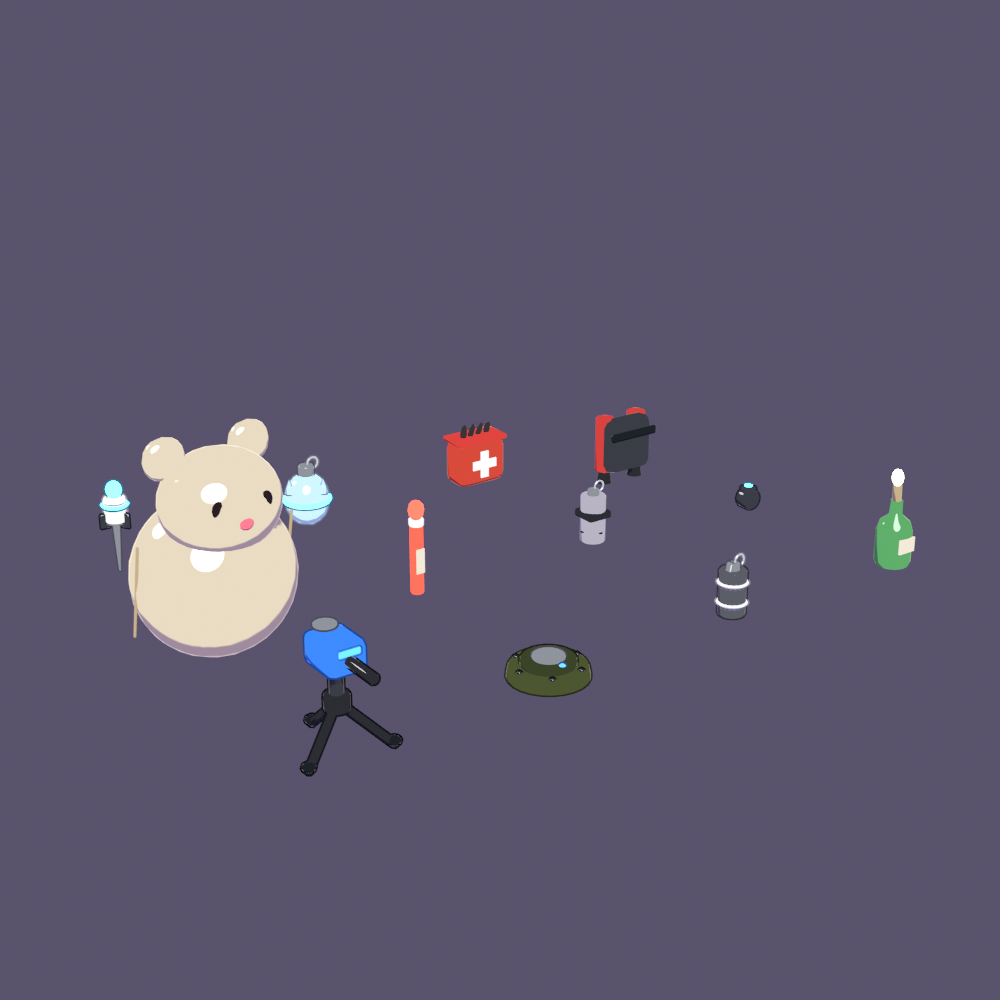
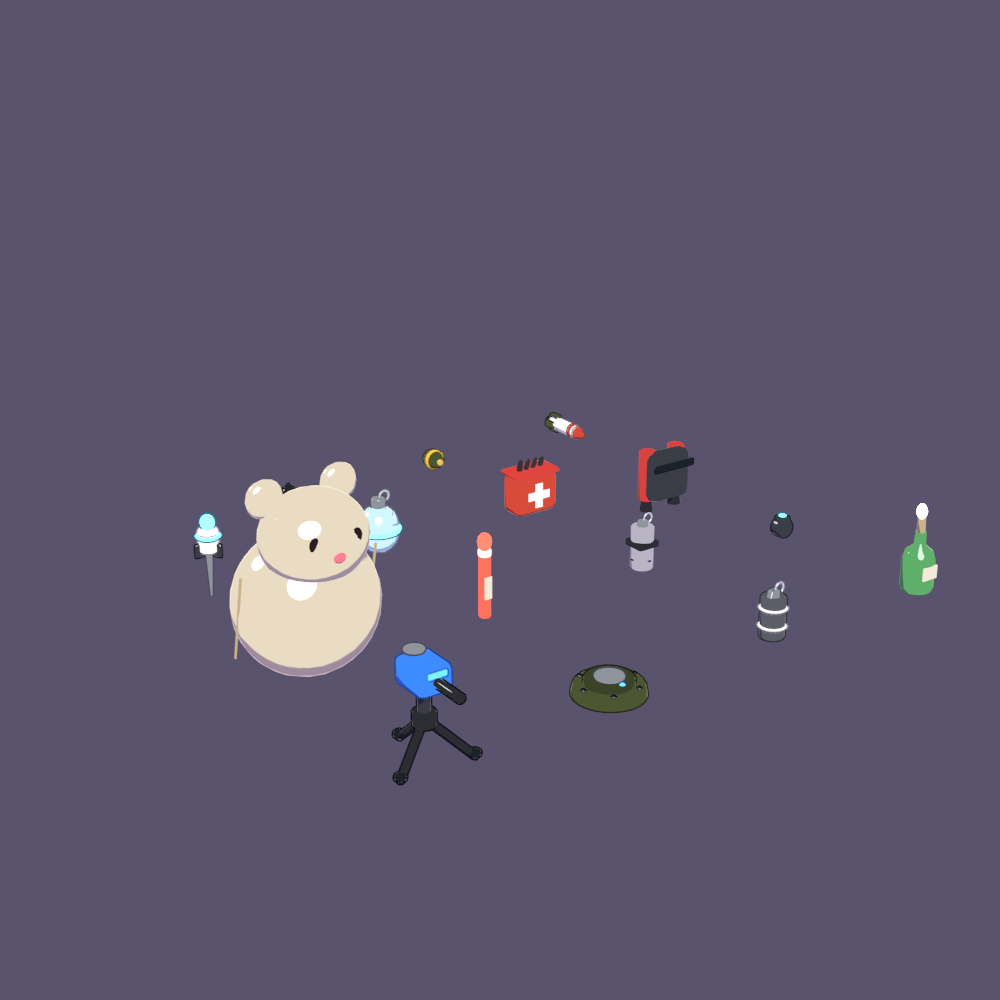
批次 2（进行中）：界面细节修正、分屏手电按视野隐藏、帧率显示、数值挪进 rules.json、完整地图胜负测试
- 设置开关显示开 / 关；大厅 / 设置 / 图鉴打开时藏起标题和底部说明；主菜单底部暗带
- 暂停菜单“Q 手雷”改为“Q 道具”；大厅说明不再折行
- 设置里的“显示帧率”接上右下角帧率显示
- 分屏：点光 / 聚光也按渲染层过滤（看不见的敌人的手电不再照亮另一边画面），伤害数字缩小
- AI 名字 16 个且不重名；结算击倒列字体
- AI 用道具阈值、道具自动瞄准距离、燃烧传染参数挪进 rules.json（数值不变）
- 新测试：完整地图 5 对 5 AI 对局能分出胜负
- 版本号 0.2.0；Windows 包附带双人分屏.bat，帧率测试改测完整地图

Claude-Session: https://claude.ai/code/session_01TTJeg44oweLbzyHitSkFYd

diff --git a/docs/PIPELINE.md b/docs/PIPELINE.md
@@ -59,6 +59,11 @@ game/
   - `scripts/view/match_view.gd`（60Hz 推进 sim + 事件分发）、`hamster_view.gd`、`unit_views.gd`、`map_view.gd`、`fx_system.gd`、`toon_materials.gd`（按材质名前缀换 toon 着色器）。
   - `scripts/ui/`（主题、HUD、主菜单、暂停、设置、结算）、`scripts/core/main.gd`（入口和命令行参数）、`scripts/core/capture.gd`（截图 / 帧率测试场景）。
   - `data/rules.json`：原型里写死的常数；`evolutions.json` 的 `effects`：进化效果（格式见 `_effectsDoc`）。
+- 批次 2 新增：
+  - sim：`sim_weapon_modes.gd`（火箭 / 榴弹 / 武士刀 / 喷火 / 电磁炮 / 激光这些不走普通子弹的开火方式）、`sim_gadgets.gd`（13 种道具 + AI 用道具的判断）、`sim_mobs.gd`（野怪营地、鼠王、宠物）、实体 `sim_mob.gd` / `sim_pet.gd` / `sim_decoy.gd`。
+  - 表现：`world_fx.gd`（光束、刀光、火区、烟雾、冲击波、火箭、野怪 / 鼠王 / 宠物 / 诱饵 / 自动炮台等新实体的节点）、`b2_views.gd`、`shaders/beam.gdshader`；`hamster_view.gd` 里的强化挂件（`ACC` 表）。
+  - 界面：`lobby.gd`（开局大厅）、`codex.gd` + `snapshot.gd`（图鉴 8 页 + 模型快照）、`settings_panel.gd`（3 页设置）、`player_input.gd`（键鼠 / 手柄 / 2P 方向键）。
+  - 本地分屏：两个 SubViewport 共用主 3D 世界，每人一个 `GameCamera` + 一套 `Hud`；视野靠渲染层（蓝队第 2 位、红队第 3 位，相机 `cull_mask = 1 | 队伍位`），`MatchView.apply_mask()` 把几何体和点光 / 聚光放到“哪些本地队伍看得见”的层上。
 - 固定逻辑帧 60Hz，渲染插值；随机数用带种子的 RNG，方便复现和联机。
 - 大量重复物体（子弹、弹壳、小兵、装饰）用 MultiMesh 或对象池。
 
@@ -77,6 +82,8 @@ game/
 
 ## 9. 测试
 - **sim 测试（headless）**：全部 18 把武器 × 各进化等级的 AI 对局，跑 2 分钟无报错（原型就是这样压力测试的）；同种子结果一致；升级卡规则（不出满级路线、换武器清零等）。
+  - 现状（批次 2）：`tests/test_*.gd`，`godot --headless --path game -s res://tests/run_all.gd`。武器 × 路线 × 等级共 504 种组合、13 种道具、野怪 / 鼠王 / 宠物 / 天赋、切片和完整地图对局都能分出胜负。
+- **表现层冒烟（headless，带自动加载）**：`tests/view_smoke.tscn` 把 18 把武器 × 进化、13 种道具、野怪鼠王宠物、双人分屏的表现层全部跑一遍，日志里不能有 SCRIPT ERROR。`-s` 脚本模式下没有自动加载，所以用到 Settings / Audio 的测试要写成场景。
 - **截图测试（窗口模式，headless 不渲染画面）**：固定场景、固定镜头批量截图到 `review/`，用来自查和给导演审阅。
 - **性能**：固定场景记录帧时间。目标 PC 1080p 稳 60（争取 120），中端手机稳 30（争取 60）。
 

diff --git a/CLAUDE.md b/CLAUDE.md
@@ -43,15 +43,16 @@
 
 ## 常用命令（已在本机验证；Windows 下把 `tools/xxx.sh` 换成 `tools\xxx.bat`）
 - 运行游戏：`tools/run.sh`（= `godot --path game`）；直接开局 `tools/run.sh --match --weapon ak47`；AI 观战 `tools/run.sh --match --autoplay`
-  - 游戏参数（写在 `--` 之后）：`--match` `--autoplay` `--mode slice|full` `--seed N` `--skin gold|pudding|silver|stripe` `--weapon pistol|ak47|shotgun` `--quit-after 秒`
-- 全部测试：`tools/test.sh`（sim 测试 + 表现层 headless 跑 2 分钟 AI 对局 + 主菜单冒烟，日志里有 SCRIPT ERROR 即失败）
+  - 游戏参数（写在 `--` 之后）：`--match` `--autoplay` `--mode full|slice`（默认 full 完整地图）`--seed N` `--skin gold|pudding|silver|stripe` `--weapon <武器 id>`（18 把，见 `weapons.json`）`--duo`（本地双人分屏）`--p2 pad|keys2`（2P 用手柄 / 方向键）`--quit-after 秒`
+- 全部测试：`tools/test.sh`（sim 测试 + 表现层 headless 跑 2 分钟 AI 对局 + `tests/view_smoke.tscn`（18 把武器 × 进化、13 种道具、野怪鼠王宠物、双人分屏）+ 主菜单冒烟，日志里有 SCRIPT ERROR 即失败）
   - 只跑 sim 测试：`godot --headless --path game -s res://tests/run_all.gd`（`-- --only 名称` 只跑一个文件）
+  - 注意：`-s` 脚本模式下没有自动加载（Settings / Audio / Capture），用到它们的表现层测试要写成场景（`godot --headless --path game res://tests/view_smoke.tscn`）
 - 生成资产：`tools/assets.sh`（全部模型 + 预览图 + 音效 + 重新导入）；单个模型 `tools/assets.sh chr_hamster`
   - 等价于 `blender --background --python tools/blender/build.py -- --asset <名称>`（`--all` 全部，`--list` 列出）；没有显示器时要套 `xvfb-run -a`（EEVEE 需要）
 - 生成音效：`python3 tools/audio/build.py --all`
 - 改了调色板 / 模型 / 音效后让 Godot 重新导入：`godot --headless --path game --import`
 - 截图（窗口模式；无显示器时自动套 xvfb-run）：`tools/capture.sh <场景> <输出目录> [分辨率] [参数]`
-  - 场景：`menu` `style` `gameplay` `cards` `loadout` `lineup` `perf`，说明见 `game/scripts/core/capture.gd` 开头
+  - 场景：`menu` `style` `gameplay` `cards` `loadout` `lineup` `screens` `codex` `arsenal` `b2world` `ui2` `duo` `perf`，说明见 `game/scripts/core/capture.gd` 开头
   - 例：`tools/capture.sh style review/x 1920x1080 --n 6 --from 30 --every 5`
 - 录屏：`tools/record.sh out.mp4 [秒数] [分辨率] [种子]`（Godot Movie Maker 固定 30 帧 + ffmpeg 转码）
 - 帧率测试：`tools/capture.sh perf <目录> 1920x1080 --dur 60` → `perf.json` / `perf.csv`；导出版里双击 `帧率测试.bat`

diff --git a/docs/PROTOTYPE_PORTING.md b/docs/PROTOTYPE_PORTING.md
@@ -16,3 +16,17 @@
 | n5b.js | HUD、升级卡、小地图、听觉光带、图鉴、输入、流程 | scripts/ui |
 
 注意：n2c.js 里有和 n2.js 同名的函数，**以 n2c.js 为准**（原型拼接时后定义的覆盖前面的）。
+
+## 移植落点（批次 2 之后）
+| 原型函数 | Godot 里的位置 |
+|---|---|
+| makeHam / updHam / respawn | `sim_world.gd` + `sim_hamster_logic.gd` |
+| aiThink / aiTarget / aiPick | `sim_ai.gd`、`sim_cards.gd` |
+| evp / fireWeapon / onBulletHit / evoTick / explode | `sim_weapons.gd`（普通子弹、命中效果、进化每帧逻辑） |
+| 火箭 / 榴弹（updLobs）/ 武士刀 / 喷火 / 电磁炮 / 激光 | `sim_weapon_modes.gd` |
+| useGadget / 烟雾 / 照明弹 / 诱饵 / 地雷 / 自动炮台 / aiWantGadget | `sim_gadgets.gd` |
+| mkMob / 野怪营地 / 鼠王 / 宠物 | `sim_mobs.gd`（实体 `sim_mob.gd`、`sim_pet.gd`、`sim_decoy.gd`） |
+| computeVis / litBy / smokeBlocks / noise | `sim_vision.gd`、`sim_gadgets.gd`（smoke_blocks） |
+| rollChoices / choiceLabel / applyChoice / calcStats | `sim_cards.gd`、`sim_hamster_logic.gd` |
+
+原型里的小怪癖原则上保留（例如狙击 A3 瞄准线、反器材 C 走廊的照明不受墙挡；双持 B 的副目标没有角度限制）。少数改掉或补全的，记在 `review/batch2/REPORT.md` 的“我替你做的决定”。
